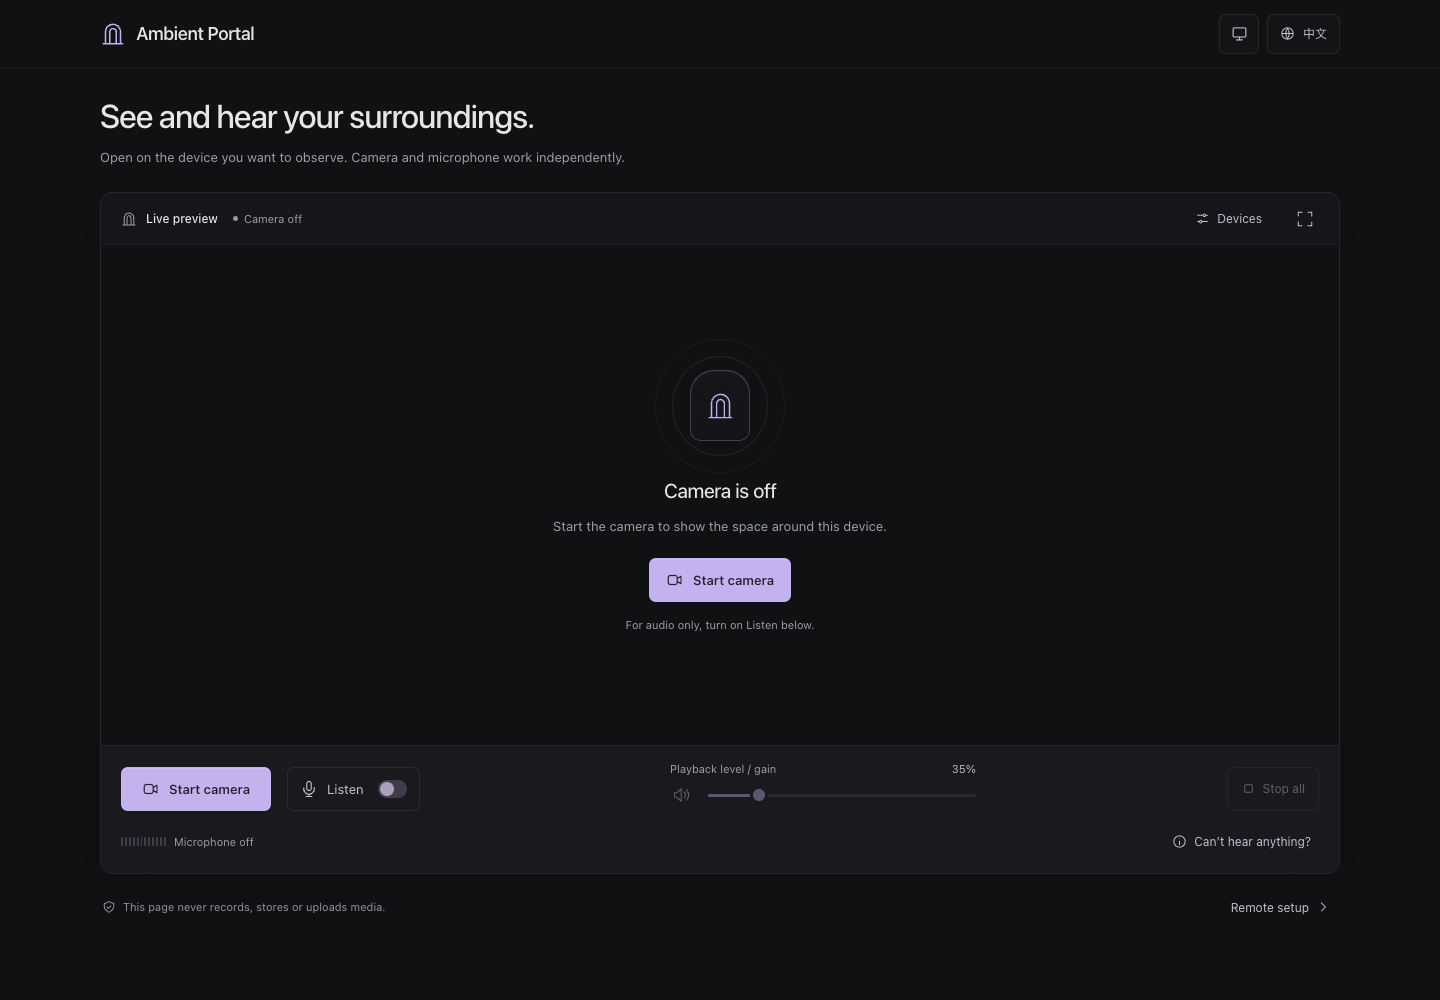
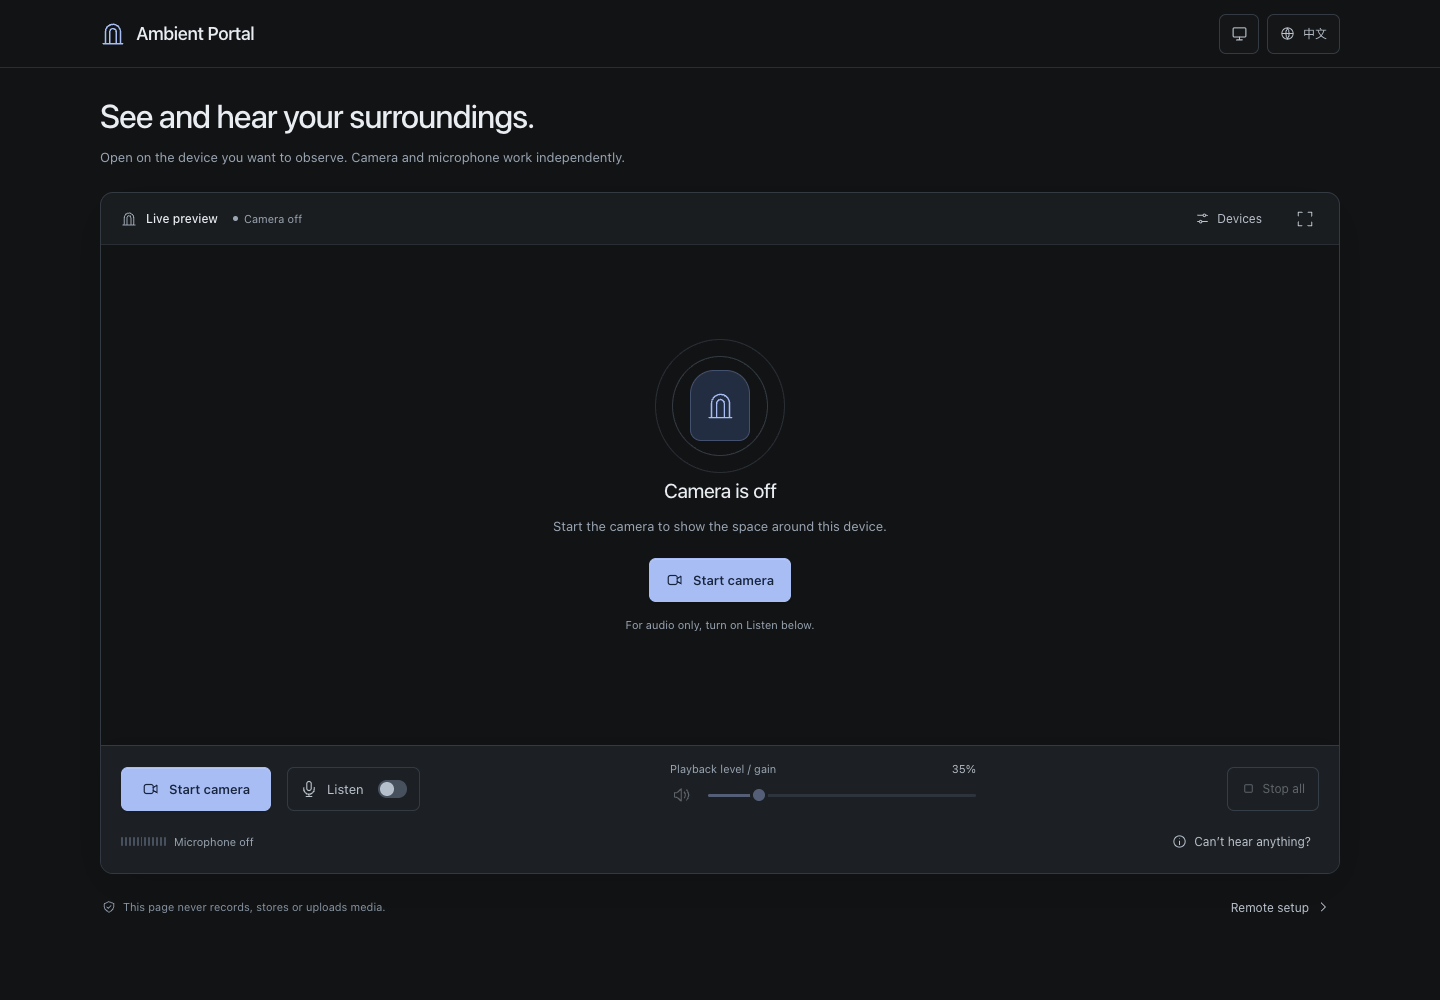
Refine light and dark themes with graphite and mist blue

diff --git a/src/style.css b/src/style.css
@@ -3,85 +3,87 @@
   font-family: Inter, -apple-system, BlinkMacSystemFont, 'Segoe UI', 'PingFang SC', 'Microsoft YaHei', sans-serif;
   font-synthesis: none; text-rendering: optimizeLegibility; -webkit-font-smoothing: antialiased;
   color-scheme: dark; color: var(--text); background: var(--page-bg);
-  --page-bg: #101113;
-  --panel-bg: #151619;
-  --control-bg: #19191e;
-  --dialog-bg: #1a1a1f;
-  --field-bg: #242229;
-  --text: #e6e6e9;
-  --text-secondary: #c7bfce;
-  --muted: #a29da9;
-  --subtle: #98909f;
-  --accent: #c3b2f0;
-  --accent-border: #baa7f645;
-  --accent-soft: #baa7f60a;
-  --green: #a0cfb6;
-  --border: #ffffff13;
-  --border-soft: #ffffff09;
-  --border-strong: #ffffff20;
+  --page-bg: #111315;
+  --panel-bg: #1a1d20;
+  --stage-bg: #111315;
+  --control-bg: #1c2024;
+  --dialog-bg: #23272c;
+  --field-bg: #1b1f23;
+  --text: #e9edf2;
+  --text-secondary: #bac2cc;
+  --muted: #9aa5b2;
+  --subtle: #8793a1;
+  --accent: #a8bdf4;
+  --accent-border: #43516e;
+  --accent-soft: #232d42;
+  --green: #8cc8ac;
+  --border: #343a42;
+  --border-soft: #292e34;
+  --border-strong: #586575;
   --subtle-bg: #ffffff03;
-  --hover-bg: #ffffff09;
-  --action-bg: #c3b2ed;
-  --action-text: #25202f;
-  --action-border: #c8b7fc60;
-  --action-hover: #d1c0fc;
-  --track: #413b4a;
-  --switch-thumb: #aaa0b7;
-  --warning: #dfbb98;
-  --warning-border: #d4ac8244;
-  --warning-bg: #d4ac8208;
-  --warning-hover: #d4ac8215;
-  --danger: #efc2cd;
-  --danger-border: #de8a9b45;
-  --danger-bg: #de8a9b0d;
-  --dot-grid: #817c9330;
+  --hover-bg: #2a3037;
+  --action-bg: #a8bdf4;
+  --action-text: #17243d;
+  --action-border: #a8bdf4;
+  --action-hover: #bed0ff;
+  --track: #47515e;
+  --switch-thumb: #b6c0cc;
+  --warning: #e6ba7b;
+  --warning-border: #64513b;
+  --warning-bg: #302b24;
+  --warning-hover: #3b3226;
+  --danger: #f0a2ae;
+  --danger-border: #794650;
+  --danger-bg: #32252a;
+  --dot-grid: #a6b6cc16;
   --inner-highlight: #ffffff27;
   --shadow: #0002;
   --shadow-soft: #0001;
   --shadow-dialog: #0007;
-  --backdrop: #08080bb3;
+  --backdrop: #080c13a6;
   /* Live video keeps a neutral black letterbox in either theme. */
   --video-bg: #090a0b;
 }
 :root[data-theme='light'] {
   color-scheme: light;
-  --page-bg: #f7f7f9;
+  --page-bg: #f5f6f7;
   --panel-bg: #ffffff;
-  --control-bg: #f2f1f5;
+  --stage-bg: #f9fafb;
+  --control-bg: #f0f2f4;
   --dialog-bg: #ffffff;
-  --field-bg: #fbfafc;
-  --text: #25232c;
-  --text-secondary: #514b60;
-  --muted: #686273;
-  --subtle: #716b7d;
-  --accent: #7455a5;
-  --accent-border: #7455a540;
-  --accent-soft: #7455a50a;
-  --green: #23744b;
-  --border: #25202f1a;
-  --border-soft: #25202f0d;
-  --border-strong: #25202f2e;
-  --subtle-bg: #25202f03;
-  --hover-bg: #7455a50c;
-  --action-bg: #7354a0;
+  --field-bg: #f9fafb;
+  --text: #252a31;
+  --text-secondary: #525d69;
+  --muted: #626e7a;
+  --subtle: #626e7a;
+  --accent: #4665b0;
+  --accent-border: #c5d0ea;
+  --accent-soft: #edf1fb;
+  --green: #26714f;
+  --border: #dfe3e8;
+  --border-soft: #e8ebef;
+  --border-strong: #a7b2bf;
+  --subtle-bg: #252a3103;
+  --hover-bg: #e8ecf1;
+  --action-bg: #4665b0;
   --action-text: #ffffff;
-  --action-border: #65478f;
-  --action-hover: #62428d;
-  --track: #cfc9d9;
+  --action-border: #4665b0;
+  --action-hover: #3a569b;
+  --track: #ccd3dc;
   --switch-thumb: #ffffff;
-  --warning: #8b571e;
-  --warning-border: #8b571e44;
-  --warning-bg: #8b571e08;
-  --warning-hover: #8b571e12;
-  --danger: #af3953;
-  --danger-border: #af395345;
-  --danger-bg: #af39530a;
-  --dot-grid: #776c8e26;
+  --warning: #8a5a1c;
+  --warning-border: #d9c3a1;
+  --warning-bg: #fbf6ed;
+  --warning-hover: #f4e9d8;
+  --danger: #ad3f53;
+  --danger-border: #dbaab4;
+  --danger-bg: #fbeff1;
+  --dot-grid: #74849724;
   --inner-highlight: #ffffff30;
-  --shadow: #2920330a;
-  --shadow-soft: #29203306;
-  --shadow-dialog: #29203326;
-  --backdrop: #29233355;
+  --shadow: #1a26330a;
+  --shadow-soft: #1a263306;
+  --shadow-dialog: #1a263326;
+  --backdrop: #1c263653;
 }
 * { box-sizing: border-box; }
 body, h1, h2, h3, p { margin: 0; }
@@ -125,23 +127,23 @@ h1 { font-size: clamp(26px, 2.6vw, 33px); font-weight: 480; letter-spacing: -1px
 .intro.is-compact { margin-bottom: 16px; }
 .intro.is-compact h1 { margin-top: 0; font-size: 19px; letter-spacing: -.3px; }
 .intro.is-compact .intro-description { display: none; }
-.environment-error { display: flex; gap: 10px; align-items: center; border: 1px solid var(--warning-border); border-radius: 8px; padding: 14px; font-size: 13px; line-height: 1.7; color: var(--warning); margin-bottom: 18px; }
+.environment-error { display: flex; gap: 10px; align-items: center; border: 1px solid var(--danger-border); border-radius: 8px; background: var(--danger-bg); padding: 14px; font-size: 13px; line-height: 1.7; color: var(--danger); margin-bottom: 18px; }
 .workspace { border: 1px solid var(--border); border-radius: 13px; background: var(--panel-bg); box-shadow: 0 14px 50px var(--shadow); }
 .panel-toolbar { display: flex; gap: 15px; align-items: center; padding: 5px 14px 5px 20px; min-height: 52px; border-bottom: 1px solid var(--border-soft); }
 .panel-toolbar h2 { display: flex; align-items: center; gap: 9px; font-size: 12px; font-weight: 500; }
 .panel-toolbar h2 .icon { color: var(--muted); width: 16px; }
 .status-badge { display: flex; align-items: center; gap: 6px; font-size: 11px; color: var(--muted); }
-.status-dot { width: 5px; height: 5px; border-radius: 50%; background: var(--subtle); }
+.status-dot { width: 5px; height: 5px; border-radius: 50%; background: currentColor; }
 .status-badge[data-state='active'] { color: var(--green); }
-.status-badge[data-state='active'] .status-dot { background: var(--green); }
 .status-badge[data-state='requesting'] .status-dot { background: var(--accent); animation: breathe 1.5s ease-in-out infinite; }
-.status-badge[data-state='error'], .status-badge[data-state='paused'] { color: var(--warning); }
+.status-badge[data-state='error'] { color: var(--danger); }
+.status-badge[data-state='paused'] { color: var(--warning); }
 #settings-open { margin-left: auto; }
 .text-button, .icon-button { display: inline-flex; justify-content: center; align-items: center; gap: 7px; border: 0; background: transparent; color: var(--text-secondary); min-height: 40px; padding: 0 8px; border-radius: 6px; font-size: 12px; }
 .text-button:hover, .icon-button:not(:disabled):hover { background: var(--hover-bg); color: var(--text); }
 .text-button .icon { width: 15px; height: 15px; }
 .icon-button { width: 40px; flex-shrink: 0; }
-.stage { position: relative; height: clamp(300px, calc(100svh - 500px), 600px); min-height: 300px; background: var(--page-bg); overflow: hidden; display: grid; place-items: center; }
+.stage { position: relative; height: clamp(300px, calc(100svh - 500px), 600px); min-height: 300px; background: var(--stage-bg); overflow: hidden; display: grid; place-items: center; }
 .stage::before { content: ''; position: absolute; inset: 0; background-image: radial-gradient(var(--dot-grid) .7px, transparent .7px); background-size: 20px 20px; mask-image: radial-gradient(ellipse at center, #000 5%, transparent 65%); pointer-events: none; }
 .stage video { width: 100%; height: 100%; position: absolute; inset: 0; object-fit: contain; background: var(--video-bg); opacity: 0; transition: opacity .25s ease; }
 .stage[data-state='active'] video { opacity: 1; }
@@ -150,7 +152,7 @@ h1 { font-size: clamp(26px, 2.6vw, 33px); font-weight: 480; letter-spacing: -1px
 .portal-orbit { position: absolute; border: 1px solid var(--border-soft); border-radius: 50%; }
 .orbit-one { inset: -17px; }
 .orbit-two { inset: 0; border-color: var(--border); }
-.portal-glyph { width: 60px; height: 71px; border: 1px solid var(--accent-border); border-radius: 24px 24px 11px 11px; display: grid; place-items: center; background: linear-gradient(165deg, var(--accent-soft), var(--subtle-bg)); box-shadow: inset 0 1px 0 var(--border-soft); }
+.portal-glyph { width: 60px; height: 71px; border: 1px solid var(--accent-border); border-radius: 24px 24px 11px 11px; display: grid; place-items: center; background: var(--accent-soft); box-shadow: inset 0 1px 0 var(--border-soft); }
 .portal-glyph .icon { width: 31px; height: 38px; stroke-width: 1.1; color: var(--accent); }
 .empty-state h3 { font-size: 20px; font-weight: 450; letter-spacing: -.4px; line-height: 1.6; }
 .empty-state > p { margin-top: 8px; font-size: 13px; color: var(--muted); line-height: 1.8; }
@@ -159,11 +161,12 @@ h1 { font-size: clamp(26px, 2.6vw, 33px); font-weight: 480; letter-spacing: -1px
 .primary-button:not(:disabled):hover { background: var(--action-hover); }
 #empty-start { margin-top: 20px; }
 .is-pending .portal-glyph { animation: breathe 1.6s ease-in-out infinite; }
-.stage[data-state='error'] .portal-glyph { border-color: var(--warning-border); }
-.stage[data-state='error'] .portal-glyph .icon { color: var(--warning); }
+.stage[data-state='error'] .portal-glyph { border-color: var(--danger-border); background: var(--danger-bg); }
+.stage[data-state='error'] .portal-glyph .icon { color: var(--danger); }
 .audio-scene { position: relative; text-align: center; padding: 25px 0; width: min(500px, 88%); }
 .audio-symbol { display: grid; place-items: center; width: 64px; height: 64px; margin: 0 auto 22px; border: 1px solid var(--accent-border); border-radius: 50%; background: var(--accent-soft); color: var(--accent); }
 .audio-symbol .icon { width: 25px; height: 25px; }
+.audio-scene:is([data-state='playbackMuted'], [data-state='paused'], [data-state='inputInterrupted']) .audio-symbol { color: var(--warning); border-color: var(--warning-border); background: var(--warning-bg); }
 .audio-scene h3 { margin-top: 9px; font-size: 23px; font-weight: 450; letter-spacing: -.5px; line-height: 1.5; }
 #audio-source { font-size: 12px; color: var(--muted); margin-top: 9px; overflow-wrap: anywhere; }
 .audio-scene .scene-caption { margin-top: 6px; color: var(--muted); font-size: 12px; line-height: 1.7; }
@@ -179,7 +182,7 @@ h1 { font-size: clamp(26px, 2.6vw, 33px); font-weight: 480; letter-spacing: -1px
 .monitor-button:hover { background: var(--subtle-bg); }
 .switch-track { width: 29px; height: 18px; display: flex; flex-shrink: 0; align-items: center; padding: 2px; border-radius: 20px; background: var(--track); margin-left: 5px; }
 .switch-track i { width: 14px; height: 14px; border-radius: 50%; background: var(--switch-thumb); transition: transform .2s ease, background .2s ease; }
-.monitor-button[aria-checked='true'] { color: var(--accent); border-color: var(--accent-border); }
+.monitor-button[aria-checked='true'] { color: var(--accent); border-color: var(--accent-border); background: var(--accent-soft); }
 :is(.monitor-button, .reminder-toggle)[aria-checked='true'] .switch-track { background: var(--action-bg); }
 :is(.monitor-button, .reminder-toggle)[aria-checked='true'] .switch-track i { transform: translateX(11px); background: var(--action-text); }
 .monitor-button[aria-busy='true'] .switch-track { animation: breathe 1.4s ease-in-out infinite; }
@@ -191,6 +194,7 @@ h1 { font-size: clamp(26px, 2.6vw, 33px); font-weight: 480; letter-spacing: -1px
 .volume-slider input { flex: 1; }
 .mute-button { flex-shrink: 0; width: 36px; height: 36px; margin-left: -6px; }
 .mute-button[data-muted='true'] { color: var(--warning); background: var(--warning-bg); }
+.mute-button[data-muted='true']:not(:disabled):hover { color: var(--warning); background: var(--warning-hover); }
 input[type='range'] { --volume: 17.5%; appearance: none; -webkit-appearance: none; width: 100%; min-width: 0; height: 26px; background: transparent; margin: 0; cursor: pointer; }
 input[type='range']::-webkit-slider-runnable-track { height: 3px; border-radius: 5px; background: linear-gradient(to right, var(--accent) var(--volume), var(--track) var(--volume)); }
 input[type='range']::-webkit-slider-thumb { appearance: none; width: 12px; height: 12px; border-radius: 50%; background: var(--accent); margin-top: -4.5px; box-shadow: 0 0 0 3px var(--control-bg); }
@@ -207,12 +211,13 @@ input[type='range']:disabled { opacity: .4; cursor: not-allowed; }
 .playback-status { color: var(--muted); }
 .level-meter { display: flex; align-items: center; gap: 2px; height: 22px; width: 45px; flex-shrink: 0; }
 .level-meter i { flex: 1; height: 9px; border-radius: 1px; background: var(--track); transition: background .08s ease; }
-.level-meter i.lit { background: var(--accent); }
+.level-meter i.lit { background: var(--green); }
 .level-meter i:nth-last-child(-n+3).lit { background: var(--warning); }
 .scene-meter.level-meter { width: 220px; max-width: 85%; margin: 20px auto 0; height: 28px; gap: 3px; }
 .scene-meter.level-meter i { height: 22px; }
 .sound-advice { font-size: 11px; line-height: 1.7; color: var(--muted); }
 .notice { font-size: 12px; line-height: 1.8; color: var(--warning); margin-top: 8px; overflow-wrap: anywhere; }
+#mic-error, #camera-error, .notice[data-state='error'] { color: var(--danger); }
 .resume-button { color: var(--accent); }
 .privacy-row { display: flex; align-items: center; justify-content: space-between; gap: 10px; padding: 13px 2px 0; }
 .privacy-row p { display: flex; align-items: center; gap: 7px; font-size: 11px; color: var(--subtle); line-height: 1.7; }
@@ -223,6 +228,8 @@ dialog::backdrop { background: var(--backdrop); backdrop-filter: blur(5px); }
 .dialog-heading > .icon { color: var(--accent); width: 23px; height: 23px; }
 dialog h2 { font-size: 21px; font-weight: 500; letter-spacing: -.5px; line-height: 1.5; }
 dialog p { font-size: 12px; color: var(--muted); margin-top: 10px; line-height: 1.8; }
+#playback-intro { color: var(--text-secondary); }
+#playback-warning { padding: 12px; border-radius: 8px; background: var(--warning-bg); color: var(--warning); }
 dialog ol { padding-left: 22px; margin: 20px 0; }
 dialog li { padding-left: 6px; font-size: 13px; color: var(--text-secondary); line-height: 1.8; margin-top: 17px; }
 dialog li::marker { color: var(--accent); font-size: 12px; }
@@ -234,7 +241,7 @@ dialog form { margin-top: 23px; }
 dialog form .dialog-close { width: 100%; min-height: 44px; border: 1px solid var(--border-strong); }
 .reminder-choice { margin-top: 18px; padding-top: 12px; border-top: 1px solid var(--border); }
 .checkbox-label { display: flex; gap: 10px; align-items: center; min-height: 40px; font-size: 12px; line-height: 1.6; color: var(--text-secondary); cursor: pointer; }
-.checkbox-label input { appearance: none; display: grid; place-content: center; flex-shrink: 0; width: 17px; height: 17px; margin: 0; border: 1px solid var(--border-strong); border-radius: 4px; background: var(--field-bg); cursor: pointer; }
+.checkbox-label input { appearance: none; display: grid; place-content: center; flex-shrink: 0; width: 17px; height: 17px; margin: 0; border: 1px solid var(--subtle); border-radius: 4px; background: var(--field-bg); cursor: pointer; }
 .checkbox-label input:checked { border-color: var(--action-bg); background: var(--action-bg); }
 .checkbox-label input:checked::after { content: ''; width: 7px; height: 4px; margin-top: -2px; border-left: 2px solid var(--action-text); border-bottom: 2px solid var(--action-text); transform: rotate(-45deg); }
 .reminder-choice p { margin: 0 0 0 27px; font-size: 11px; }
@@ -252,11 +259,14 @@ dialog form .dialog-close { width: 100%; min-height: 44px; border: 1px solid var
 .source-picker, .format-control { margin-top: 15px; }
 .source-picker label, .format-control label { display: block; font-size: 12px; margin-bottom: 8px; color: var(--muted); }
 select { width: 100%; min-width: 0; min-height: 43px; padding: 8px 11px; border: 1px solid var(--border-strong); border-radius: 6px; background: var(--field-bg); color: var(--text); font-size: 13px; cursor: pointer; }
-select:hover { border-color: var(--accent-border); }
+select:hover { border-color: var(--accent); }
 #format-help, #crop-help, .settings-note { font-size: 11px; }
 .crop-button { margin-top: 8px; width: 100%; padding: 10px; min-height: 42px; border: 1px solid var(--warning-border); border-radius: 6px; background: var(--warning-bg); color: var(--warning); font-size: 12px; }
 .crop-button:hover { background: var(--warning-hover); }
-.sound-checks .check-result { color: var(--accent); margin-top: 4px; }
+.sound-checks .check-result { color: var(--muted); margin-top: 4px; }
+.playback-status[data-state='playbackRunning'], .check-result:is([data-state='playbackRunning'], [data-state='inputDetected']), #mic-status[data-state='inputDetected'] { color: var(--green); }
+:is(.playback-status, .check-result, #mic-status):is([data-state='playbackMuted'], [data-state='paused'], [data-state='inputInterrupted']) { color: var(--warning); }
+.check-result[data-state='error'], #mic-status[data-state='error'] { color: var(--danger); }
 .sound-checks p { margin-top: 5px; }
 .sound-checks .text-button { color: var(--accent); margin-top: 4px; }
 .workspace:fullscreen { width: 100%; height: 100%; border: 0; border-radius: 0; display: flex; flex-direction: column; background: var(--panel-bg); overflow: auto; }

diff --git a/tests/browser/theme.spec.js b/tests/browser/theme.spec.js
@@ -10,7 +10,7 @@ async function chooseTheme(page, value) {
 async function expectTheme(page, theme) {
   await expect(page.locator('html')).toHaveAttribute('data-theme', theme);
   expect(await page.locator('html').evaluate((element) => getComputedStyle(element).colorScheme)).toBe(theme);
-  await expect(page.locator('meta[name="theme-color"]')).toHaveAttribute('content', theme === 'light' ? '#f7f7f9' : '#101113');
+  await expect(page.locator('meta[name="theme-color"]')).toHaveAttribute('content', theme === 'light' ? '#f5f6f7' : '#111315');
 }
 
 test('appearance follows system changes until overridden, persists on reload, and can return to system', async ({ page }) => {
@@ -54,7 +54,7 @@ test('saved light appearance is painted even before the application bundle arriv
   await page.goto('./');
   await expectTheme(page, 'light');
   await expect(page.locator('#app')).toBeEmpty();
-  expect(await page.locator('html').evaluate((element) => getComputedStyle(element).backgroundColor)).toBe('rgb(247, 247, 249)');
+  expect(await page.locator('html').evaluate((element) => getComputedStyle(element).backgroundColor)).toBe('rgb(245, 246, 247)');
   await page.unroute('**/assets/*.js');
   await page.reload();
   await expect(page.locator('#theme-button')).toHaveAccessibleName('Appearance: Light');
@@ -122,7 +122,7 @@ test('theme changes preserve active media, gain and camera format; fullscreen us
     await expect(page.locator('#volume-value')).toHaveText('200%');
     await page.locator('#fullscreen').click();
     expect(await page.evaluate(() => document.fullscreenElement.id)).toBe('workspace');
-    expect(await page.locator('#workspace').evaluate((element) => getComputedStyle(element).backgroundColor)).toBe(theme === 'light' ? 'rgb(255, 255, 255)' : 'rgb(21, 22, 25)');
+    expect(await page.locator('#workspace').evaluate((element) => getComputedStyle(element).backgroundColor)).toBe(theme === 'light' ? 'rgb(255, 255, 255)' : 'rgb(26, 29, 32)');
     expect(await page.locator('video').evaluate((video) => getComputedStyle(video).filter)).toBe('none');
     expect(await page.locator('video').evaluate((video) => getComputedStyle(video).backgroundColor)).toBe('rgb(9, 10, 11)');
     await page.locator('#fullscreen').click();
@@ -155,7 +155,7 @@ test('both palettes fit desktop and phone layouts, translated pickers, audio-onl
     for (const [button, dialog] of [['settings-open', 'settings-dialog'], ['sound-help', 'sound-dialog']]) {
       await page.locator(`#${button}`).click();
       await expect(page.locator(`#${dialog}`)).toBeVisible();
-      expect(await page.locator(`#${dialog}`).evaluate((element) => getComputedStyle(element).backgroundColor)).toBe(theme === 'light' ? 'rgb(255, 255, 255)' : 'rgb(26, 26, 31)');
+      expect(await page.locator(`#${dialog}`).evaluate((element) => getComputedStyle(element).backgroundColor)).toBe(theme === 'light' ? 'rgb(255, 255, 255)' : 'rgb(35, 39, 44)');
       await page.screenshot({ path: testInfo.outputPath(`${theme}-${dialog}-zh-CN.png`), fullPage: true });
       await page.keyboard.press('Escape');
     }

diff --git a/src/main.js b/src/main.js
@@ -164,9 +164,13 @@ function renderSound() {
   const input = inputKey();
   const playback = playbackKey();
   $('mic-status').textContent = t(mic.error ? 'error' : input);
+  $('mic-status').dataset.state = mic.error ? 'error' : input;
   $('playback-status').textContent = ['active', 'paused'].includes(mic.status) ? t(playback) : '';
+  $('playback-status').dataset.state = playback;
   $('check-input').textContent = t(input);
+  $('check-input').dataset.state = mic.error ? 'error' : input;
   $('check-playback').textContent = t(playback);
+  $('check-playback').dataset.state = playback;
   const inputHelp = mic.error ? 'checkInputError' : mic.status === 'requesting' ? 'micPendingBody'
     : !isEngaged(mic) ? 'checkInputStart' : mic.muted ? 'checkInputInterrupted'
       : mic.status === 'paused' ? 'checkInputPaused' : 'checkInputHelp';
@@ -178,6 +182,7 @@ function renderSound() {
   const sceneTitle = mic.status === 'requesting' ? 'micPendingTitle' : mic.muted ? 'inputInterrupted'
     : mic.status === 'paused' ? 'paused' : media.volume === 0 ? 'playbackMutedTitle' : 'listeningTitle';
   $('audio-scene-title').textContent = t(sceneTitle);
+  $('audio-scene').dataset.state = mic.muted ? 'inputInterrupted' : playback;
   $('scene-caption').textContent = t(mic.status === 'requesting' ? 'micPendingBody' : input);
   $('scene-meter').hidden = mic.status === 'requesting';
 }
@@ -189,6 +194,7 @@ function renderSource(name) {
     || (name === 'microphone' && media.volumeReset ? 'volumeResetHint' : null);
   $(`${name}-source-status`).hidden = !statusKey;
   $(`${name}-source-status`).textContent = statusKey ? t(statusKey) : '';
+  $(`${name}-source-status`).dataset.state = device.error ? 'error' : device.status;
   const devices = media.devices[name];
   $(`${name}-source-name`).textContent = source.label || t(isEngaged(device) && device.status !== 'requesting' ? 'sourceUnnamed' : 'sourcePending');
   const picker = $(`${name}-device`);

diff --git a/index.html b/index.html
@@ -3,10 +3,10 @@
   <head>
     <meta charset="UTF-8" />
     <meta name="viewport" content="width=device-width, initial-scale=1" />
-    <meta name="theme-color" content="#101113" />
+    <meta name="theme-color" content="#111315" />
     <style>
-      :root { --page-bg: #101113; background: var(--page-bg); color-scheme: dark; }
-      :root[data-theme='light'] { --page-bg: #f7f7f9; color-scheme: light; }
+      :root { --page-bg: #111315; background: var(--page-bg); color-scheme: dark; }
+      :root[data-theme='light'] { --page-bg: #f5f6f7; color-scheme: light; }
     </style>
     <script>
       // Apply the saved appearance before loading the app, so reloads do not flash the other theme.

diff --git a/README.en.md b/README.en.md
@@ -33,7 +33,7 @@ Built with Vite, vanilla JavaScript, and native browser APIs. No backend, accoun
 - A reminder to check the controlled device’s audio output before the first listen. Choose not to be reminded in this browser, or turn reminders back on in Device settings.
 - One-click playback mute and restore. Reopening or switching microphones resets gain above 100% to 35%, while muted playback stays muted.
 - English and Simplified Chinese throughout, automatic browser language selection, and a saved preference.
-- Light and dark themes with automatic system appearance, responsive desktop and mobile layouts, keyboard controls, and reduced motion support.
+- Graphite gray and mist blue palettes for light, dark, and system appearance. Running, muted, and error states use both color and text. Responsive desktop and mobile layouts, keyboard controls, and reduced motion support.
 - Actionable states for denied permissions, missing or busy devices, interrupted signals, and paused audio.
 - Cancel pending requests safely: if permission arrives after cancellation, its stream is immediately released.
 

diff --git a/README.md b/README.md
@@ -33,7 +33,7 @@ Vite + 原生 JavaScript + 浏览器 Web API。无后端、账号、数据库或
 - 默认在首次开启监听前提醒检查被控设备的音频输出；可选择在此浏览器不再提醒，并随时到设备设置中恢复。
 - 一键静音回放并恢复原音量；重新开启或切换麦克风时，高于 100% 的增益回到 35%，已静音的回放保持静音。
 - 中英双语、浏览器语言检测、偏好持久化，所有状态和错误均本地化。
-- 深色与浅色主题、自动跟随系统外观、桌面与手机布局、键盘操作、减弱动态效果偏好支持。
+- 石墨灰与雾蓝配色，支持深色、浅色和自动跟随系统外观；运行、静音与错误状态均有颜色和文字提示。兼容桌面与手机布局、键盘操作及减弱动态效果偏好。
 - 权限被拒绝、设备缺失或占用、信号中断、音频暂停等状态的明确提示。
 - 支持取消等待中的权限请求；浏览器之后返回的流会立即释放，不会意外重新开启。
 
